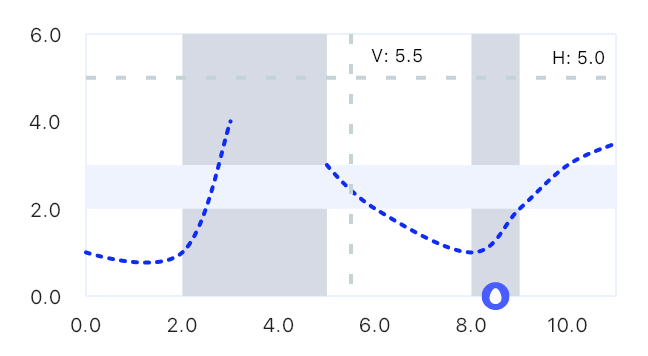
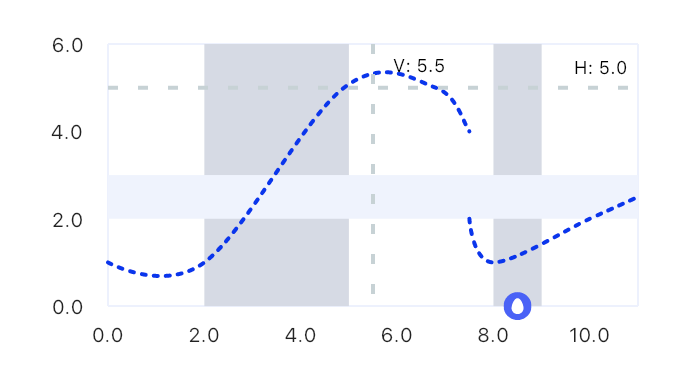
feat(line-chart): better nullability sample

diff --git a/example/lib/line_chart/samples/line_chart_sample8.dart b/example/lib/line_chart/samples/line_chart_sample8.dart
@@ -173,18 +173,16 @@ class _LineChartSample8State extends State<LineChartSample8> {
       lineBarsData: [
         LineChartBarData(
           spots: const [
-            FlSpot(null, null),
             FlSpot(0, 1),
             FlSpot(2, 1),
-            FlSpot(3, 4),
+            FlSpot(4.9, 5),
+            FlSpot(6.8, 5),
+            FlSpot(7.5, 4),
             FlSpot(null, null),
-            FlSpot(5, 3),
-            FlSpot(6, 2),
+            FlSpot(7.5, 2),
             FlSpot(8, 1),
-            FlSpot(9, 2),
-            FlSpot(10, 3),
-            FlSpot(11, 3.5),
-            // FlSpot(null, null),
+            FlSpot(10, 2),
+            FlSpot(11, 2.5),
           ],
           dashArray: [2, 4],
           isCurved: true,
